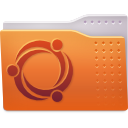
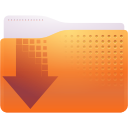
修改界面布局（使用headerbar代替window titlebar)，替换图标。

diff --git a/plugins/SiteTab.py b/plugins/SiteTab.py
@@ -17,22 +17,15 @@ SITEFILE = "site.xml"
 
 IMG_DIR = "dir.png"
 IMG_SITE = "site.png"
-IMG_SHELL = "shell.png"
+IMG_SHELL = "shell.svg"
 IMG_SSH = "ssh.png"
 
-IMG_QUIT = "quit.png"
-IMG_CLOSEALL = "close_all.png"
 IMG_RELOAD = "reload.png"
 IMG_EDIT = "edit.png"
-IMG_HELP = "help.png"
-IMG_ABOUT = "about.png"
 
 COL_PIXBUF = 0
 COL_NAME   = 1
 COL_CFG    = 2
-
-PIXBUF_SIZE = 32
-IMG_SIZE = 32
 
 class SiteTab(Frame.AbsTab):
     @staticmethod
@@ -45,10 +38,10 @@ class SiteTab(Frame.AbsTab):
         self.config = frame.path_config + "/" + SITEFILE
         self.img = {}
 
-        self.img["dir"]     = self.frame.load_pixbuf(IMG_DIR, PIXBUF_SIZE)
-        self.img["site"]    = self.frame.load_pixbuf(IMG_SITE, PIXBUF_SIZE)
-        self.img["shell"]   = self.frame.load_pixbuf(IMG_SHELL, PIXBUF_SIZE)
-        self.img["ssh"]     = self.frame.load_pixbuf(IMG_SSH, PIXBUF_SIZE)
+        self.img["dir"]     = self.frame.load_pixbuf(IMG_DIR, 24)
+        self.img["site"]    = self.frame.load_pixbuf(IMG_SITE)
+        self.img["shell"]   = self.frame.load_pixbuf(IMG_SHELL, 24)
+        self.img["ssh"]     = self.frame.load_pixbuf(IMG_SSH, 24)
 
         # head
         self.label = Gtk.Label("Site List")
@@ -76,62 +69,22 @@ class SiteTab(Frame.AbsTab):
 
     def _toolbar(self):
         self.toolbar = Gtk.Toolbar()
-        self.toolbar.set_style(Gtk.ToolbarStyle.BOTH)
+        self.toolbar.set_style(Gtk.ToolbarStyle.ICONS)
         self.vbox.pack_start(self.toolbar, False, False, 0)
-
-        # quit
-        item = Gtk.ToolButton()
-        item.set_label("Quit")
-        item.set_icon_widget(self.frame.load_img(IMG_QUIT, IMG_SIZE))
-        item.connect("clicked", self._on_quit_clicked)
-        self.toolbar.insert(item, -1)
-
-        # close all
-        item = Gtk.ToolButton()
-        item.set_label("Close All")
-        item.set_icon_widget(self.frame.load_img(IMG_CLOSEALL, IMG_SIZE))
-        item.connect("clicked", self._on_close_all_clicked)
-        self.toolbar.insert(item, -1)
-
-        # |
-        item = Gtk.SeparatorToolItem()
-        self.toolbar.insert(item, -1)
 
         # reload config
         item = Gtk.ToolButton()
-        item.set_label("Reload Config")
-        item.set_icon_widget(self.frame.load_img(IMG_RELOAD, IMG_SIZE))
+        #item.set_label("Reload Config")
+        item.set_icon_widget(self.frame.load_img(IMG_RELOAD))
         item.connect("clicked", self._on_reload_clicked)
         self.toolbar.insert(item, -1)
 
         # edit config
         item = Gtk.ToolButton()
         item.set_label("Edit Config")
-        item.set_icon_widget(self.frame.load_img(IMG_EDIT, IMG_SIZE))
+        item.set_icon_widget(self.frame.load_img(IMG_EDIT))
         item.connect("clicked", self._on_edit_clicked)
         self.toolbar.insert(item, -1)
-
-        # |
-        item = Gtk.SeparatorToolItem()
-        self.toolbar.insert(item, -1)
-
-        # help
-        item = Gtk.ToolButton()
-        item.set_label("Help")
-        item.set_icon_widget(self.frame.load_img(IMG_HELP, IMG_SIZE))
-        self.toolbar.insert(item, -1)
-
-        # About
-        item = Gtk.ToolButton()
-        item.set_label("About")
-        item.set_icon_widget(self.frame.load_img(IMG_ABOUT, IMG_SIZE))
-        self.toolbar.insert(item, -1)
-
-    def _on_quit_clicked(self, widget, data=None):
-        self.frame.quit(True)
-
-    def _on_close_all_clicked(self, widget, data=None):
-        self.frame.close_all(True)
 
     def _on_reload_clicked(self, widget, data=None):
         if os.path.exists(self.config) == False:

diff --git a/Frame.py b/Frame.py
@@ -5,6 +5,9 @@ import os
 import os.path
 import sys
 
+import gi
+gi.require_version("Gtk", "3.0")
+
 from gi.repository import Gdk, Gtk, GObject
 from gi.repository import GdkPixbuf
 from gi.repository.GdkPixbuf import Pixbuf
@@ -16,6 +19,7 @@ PATH_EXAMPLE="example"
 PATH_CONFIG=".jcm"
 
 ICON_APP="app.png"
+IMG_CLOSEALL = "close_all.png"
 
 class AbsTab:
     # 返回None说明是自动加载的Tab控件
@@ -53,17 +57,48 @@ class Frame:
             print "[ERROR] " + self.path_config + " is not a direcotry !"
             sys.exit(-1)
 
-        self.window = Gtk.Window(Gtk.WindowType.TOPLEVEL)
-        self.window.set_title(title + " " + version)
+        # application
+        self.app = Gtk.Application.new("juniu.jcm", 0)
+
+        # window
+        self.window = Gtk.ApplicationWindow(Gtk.WindowType.TOPLEVEL)
         self.window.set_icon_from_file(self.path_res + "/" + ICON_APP)
-        self.window.set_default_size(500, 400)
-        self.window.maximize()
         self.window.set_position(Gtk.WindowPosition.CENTER_ALWAYS)
-        self.window.connect('delete-event',self._on_window_delete_event)
-    
+        self.window.set_default_size(500, 400)
+        #self.window.set_decorated(False)
+        self.window.maximize()
         self.window.set_events(Gdk.EventMask.KEY_PRESS_MASK)
         self.window.connect('key-press-event', self._on_window_key_press)
+        self.window.connect('delete-event',self._on_window_delete_event)
 
+        self._header_bar(title + " " + version)
+        self.window.set_titlebar(self.header)
+        Gtk.Settings.get_default().connect("notify::gtk-decoration-layout",
+                                            self._update_decorations);
+
+
+        self._notebook()
+
+    def _update_decorations(self, settings, pspec):
+        layout_desc = settings.props.gtk_decoration_layout;
+        self.header.set_decoration_layout(layout_desc)
+
+    def _header_bar(self, title):
+        self.header = Gtk.HeaderBar()
+        self.header.set_title(title)
+        self.header.set_show_close_button(True)
+
+        # close all tabs
+        #item = Gtk.Button("Close Tabs")
+        item = Gtk.Button()
+        #item.set_relief(Gtk.ReliefStyle.NONE)
+        item.set_image(self.load_img("clean.svg", 16));
+        item.connect("clicked", self._on_close_all_tabs_clicked)
+        self.header.pack_start(item)
+
+        self.header.show_all()
+
+    def _notebook(self):
         self.notebook = Gtk.Notebook()
         self.notebook.set_show_border(True)
         self.notebook.set_show_tabs(True)
@@ -106,6 +141,7 @@ class Frame:
 
     def show(self):
         self.window.show_all()
+        Gtk.main()
     
     def hide(self):
         self.window.hide_all()
@@ -163,11 +199,7 @@ class Frame:
             else:
                 i += 1
 
-    def close_all(self, ask=True):
-        if ask == False:
-            self._close_all()
-            return False
-
+    def _on_close_all_tabs_clicked(self, widget, data=None):
         dlg = Gtk.MessageDialog(self.window,
                                 Gtk.DialogFlags.MODAL,
                                 Gtk.MessageType.QUESTION,

diff --git a/plugins/ShellTab.py b/plugins/ShellTab.py
@@ -8,7 +8,7 @@ from gi.repository.GdkPixbuf import Pixbuf
 
 import Frame
 
-IMG_CLOSE="close.png"
+IMG_CLOSE="close.svg"
 
 class ShellTab(Frame.AbsTab):
     @staticmethod
@@ -63,7 +63,7 @@ class ShellTab(Frame.AbsTab):
         self.frame.del_tab(self)
         return True
 
-    def _on_child_exited(self, widget):
+    def _on_child_exited(self, widget, x):
         self.childpid = 0
         self.close()
 

diff --git a/main.py b/main.py
@@ -12,5 +12,3 @@ if __name__ == "__main__":
     frame = Frame("Juniu Connect Manager", "1.1.0")
     frame.load_plugins()
     frame.show()
-
-    Gtk.main()

diff --git a/plugins/SshTab.py b/plugins/SshTab.py
@@ -8,7 +8,7 @@ from gi.repository.GdkPixbuf import Pixbuf
 
 import Frame
 
-IMG_CLOSE="close.png"
+IMG_CLOSE="close.svg"
 
 MENU_SIZE = 16
 
